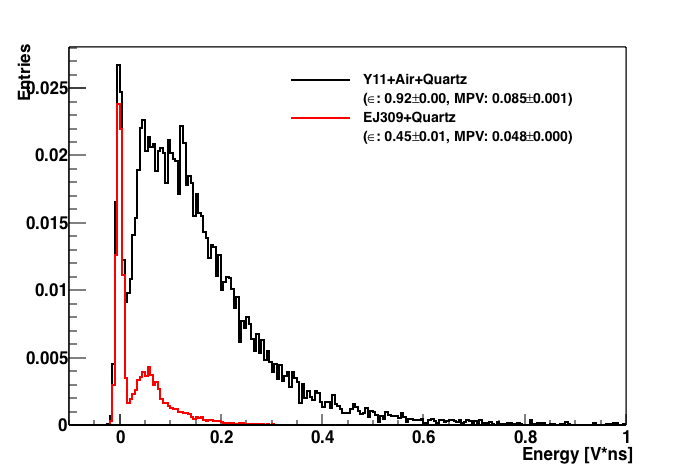
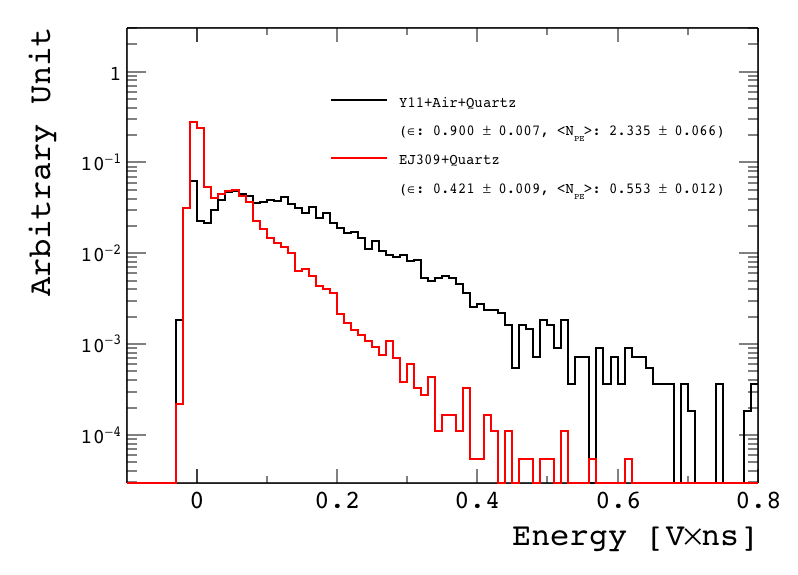
Update Fig. 4

diff --git a/aliquidtile.tex b/aliquidtile.tex
@@ -331,8 +331,7 @@ could be found.
 \includegraphics[width=0.8\textwidth]{./figures/list_RO_FIBER_all_norm.png}
 \caption{Comparison between the light output of a liquid scintillator
   tile equipped with a plastic WLS fiber, and a capillary filled with
-  liquid WLS. The two distributions are normalized to have the same
-  number of events in the pedestal.{\color{red} Geng Yuan will remake to publication quality, and will make a more sensible normalization since i hate this normalization to the pedestal.  why not normalize to the same number of muons?}}
+  liquid WLS. The two distributions are normalized to have the same area of 1.}
 \label{fig:y11_vs_cap}
 \end{center}
 \end{figure}
